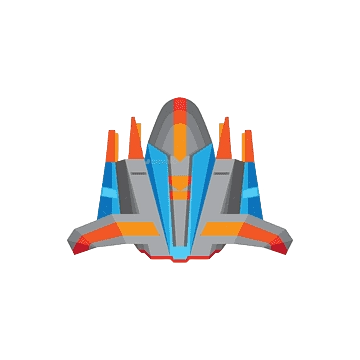
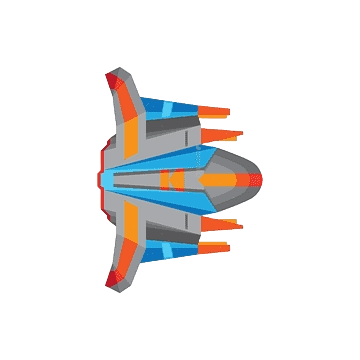
added draw collision function

Changed region(s): [[0.1833, 0.1833, 0.825, 0.825]]

diff --git a/SourceCode/player.cpp b/SourceCode/player.cpp
@@ -51,7 +51,7 @@ void player_update()
     switch (player_state)
     {
     case 0:
-        spaceShipSpr = sprite_load(L"./Data/Images/spaceship.png");
+        spaceShipSpr = sprite_load(L"./Data/Images/spaceship3.png");
 
 
         ++player_state;
@@ -59,14 +59,14 @@ void player_update()
 
     case 1:
         spaceShip.pos = { 300,100 };
-        spaceShip.scale = { 0.3,0.3 };
+        spaceShip.scale = { 1,1 };
         spaceShip.texPos = { 0,0 };
-        spaceShip.texSize = { 500,500 };
+        spaceShip.texSize = {173,231}; //spaceship size is 173x231
         spaceShip.pivot = { 0,0 };
         spaceShip.color = { 1,1,1,1 };
         spaceShip.speed = { 0 ,0 };
         spaceShip.maxSpeed = { 7,7 };
-
+        spaceShip.fuel = 100;
         turboMode = false;
         ++player_state;
         /*fallthrough*/
@@ -77,9 +77,11 @@ void player_update()
         //testing for pushing and pull
         player_moveX();
         player_moveY();
-       triggerAccelerateMode();
+        triggerAccelerateMode();
         debug::setString("turbo mode is %d", turboMode);
         debug::setString("player speed x is %f", spaceShip.speed.x);
+
+    
         break;
     }
 }
@@ -103,13 +105,15 @@ void player_render()
     //******************************************************************************
 #endif
     //TODO_09
+
     sprite_render(spaceShipSpr,
         spaceShip.pos.x, spaceShip.pos.y, //pos
         spaceShip.scale.x, spaceShip.scale.y, //scale
         spaceShip.texPos.x, spaceShip.texPos.y, //texture pos
         spaceShip.texSize.x, spaceShip.texSize.y,//texture width and height
-        spaceShip.pivot.x, spaceShip.pivot.y, ToRadian(90));
-
+        spaceShip.pivot.x, spaceShip.pivot.y, 0);
+    spaceShip.drawCollision(spaceShip.pos.x, spaceShip.pos.y, spaceShip.texSize.x, spaceShip.texSize.y);
+            
 }
 
 void player_moveY()
